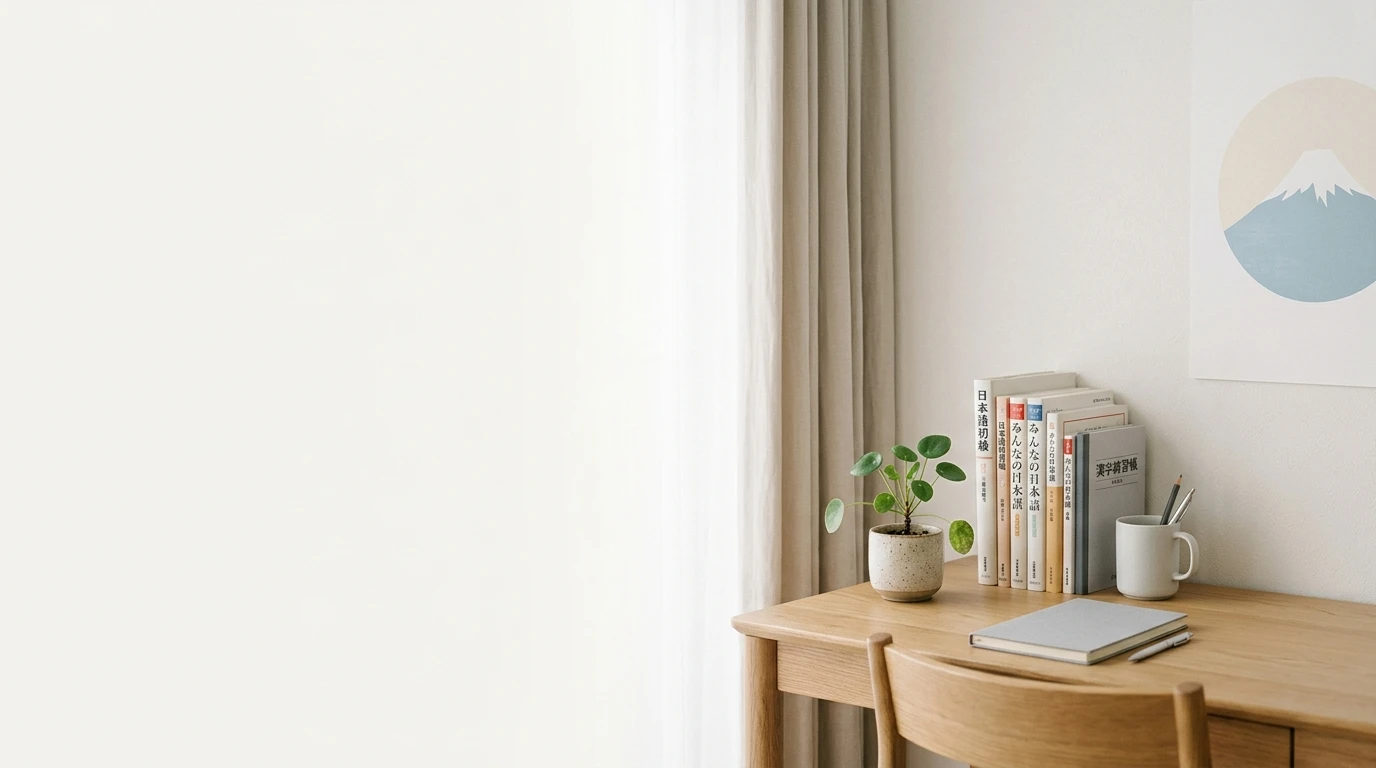
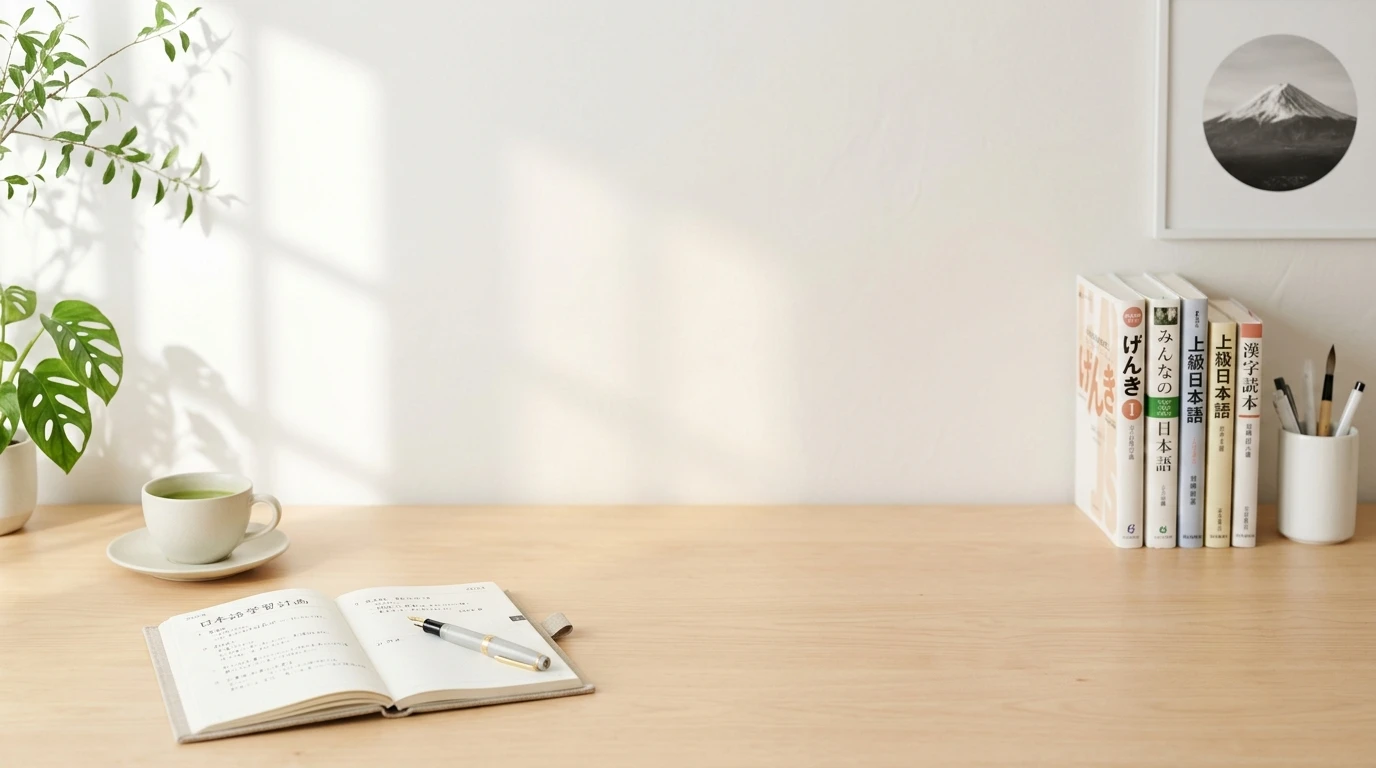
feat(web): update hero background to balanced Japandi study scene with left and right motifs

diff --git a/apps/web/app/page.tsx b/apps/web/app/page.tsx
@@ -285,17 +285,17 @@ export default function HomePage(): React.JSX.Element {
 
       {/* SECTION 1: HERO WITH INTEGRATED 3-TIER SEARCH FRAME */}
       <section className="relative overflow-hidden bg-white dark:bg-slate-900 border-b border-slate-200/80 dark:border-slate-800 pt-10 pb-12 px-4 sm:px-6">
-        {/* Aesthetic Japanese Study Background Scene */}
-        <div className="absolute top-0 right-0 bottom-0 w-full sm:w-2/3 lg:w-1/2 pointer-events-none select-none z-0 overflow-hidden">
+        {/* Aesthetic Japanese Study Background Scene (Balanced Left & Right) */}
+        <div className="absolute inset-0 pointer-events-none select-none z-0 overflow-hidden">
           <img
             src="/images/hero-jlpt-bg.webp"
             alt=""
             aria-hidden="true"
-            className="w-full h-full object-cover object-right opacity-90 dark:opacity-30"
+            className="w-full h-full object-cover object-center opacity-90 dark:opacity-25"
           />
-          {/* Subtle gradient overlays to seamlessly blend into page background */}
-          <div className="absolute inset-0 bg-gradient-to-r from-white via-white/80 to-transparent dark:from-slate-900 dark:via-slate-900/80" />
-          <div className="absolute inset-0 bg-gradient-to-t from-white via-transparent to-transparent dark:from-slate-900" />
+          {/* Soft tint overlay so text and card remain crisp and readable */}
+          <div className="absolute inset-0 bg-white/40 dark:bg-slate-900/40" />
+          <div className="absolute inset-x-0 bottom-0 h-20 bg-gradient-to-t from-white dark:from-slate-900 to-transparent" />
         </div>
 
         <div className="container mx-auto max-w-7xl relative z-10">
